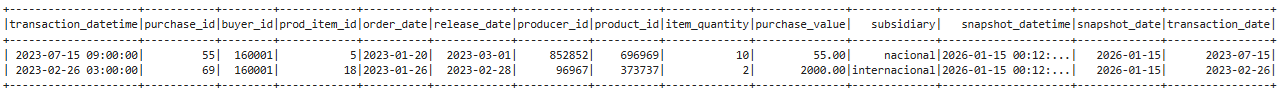
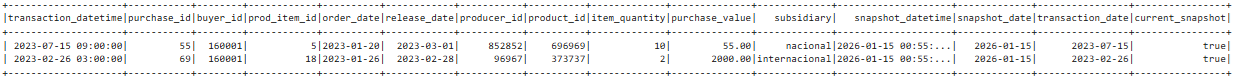
atualizando projeto

diff --git a/README.md b/README.md
@@ -125,6 +125,9 @@ bronze_purchase_extra_info >> silver_purchase_extra_info
 
 - Consulta SQL, em cima do dataset final que retorne o GMV diário por
 subsidiária:
+
+Incremento diário dessa consulta. Assim o usuário terá o campo `snapshot_date` para transitar pelo histórico e o campo transaction_date para coletar os resultados referentes ao dia de importância. Bastando para isso escolher o 
+
 ```python
     SELECT 
         a.transaction_datetime,
